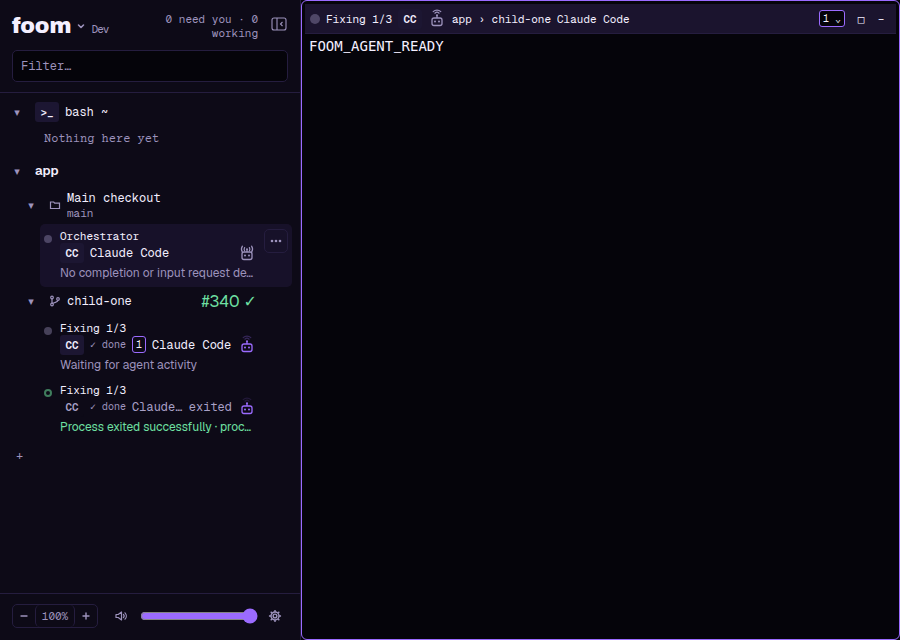
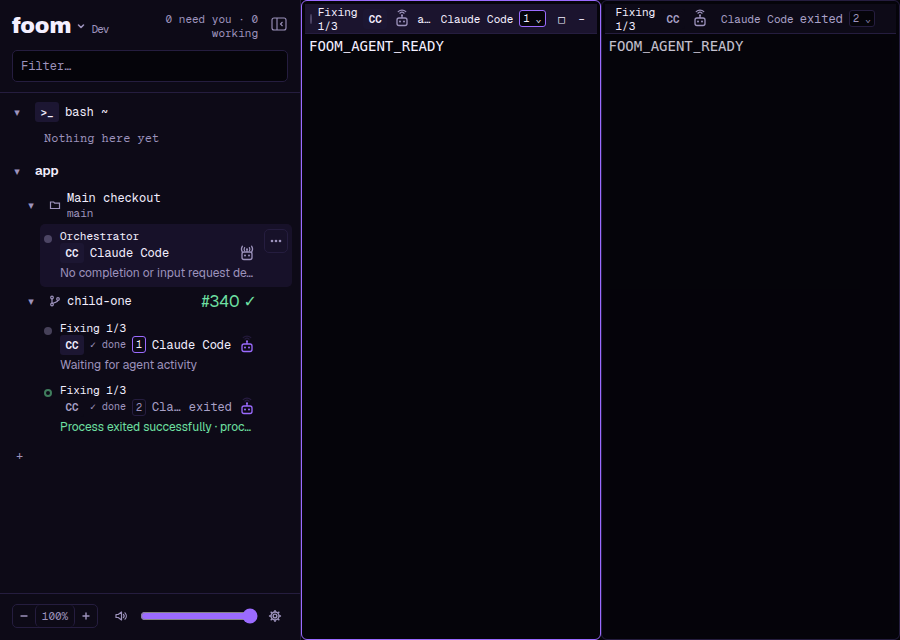
Recheck review gates, honor placement and publish fixture commands atomically

Changed region(s): [[0.3422, 0.0, 1.0, 1.0], [0.1244, 0.625, 0.2178, 0.6562], [0.6533, 0.9688, 0.6844, 1.0]]

diff --git a/tests/electron/review-loop.test.js b/tests/electron/review-loop.test.js
@@ -27,6 +27,9 @@ if (isChild) {
   const step = reviewer ? (fs.existsSync(path.join(process.env.TEST_REVIEW_ROOT, "review-1.finished")) ? "review-2" : "review-1") : resumed ? "fix" : "build";
   record(step, JSON.stringify({ args, controlUrl: process.env.FOOM_CONTROL_URL, controlToken: process.env.FOOM_CONTROL_TOKEN, instanceId: process.env.FOOM_CONTROL_INSTANCE }));
   process.stdin.on("data", () => { record("unexpected-input", "PTY input received"); process.exit(2); });
+  const fixtureError = error => { record("fixture-error", error instanceof Error ? error.message : String(error)); process.exit(2); };
+  process.on("uncaughtException", fixtureError);
+  process.on("unhandledRejection", fixtureError);
   const timer = setInterval(async () => {
     const file = path.join(process.env.TEST_REVIEW_ROOT, step + ".go");
     if (!fs.existsSync(file)) return;
@@ -58,7 +61,7 @@ for (const scenario of ["clean", "fix", "cap", "edit", "blocked", "red"]) {
     timeout: deadline(90000),
     skip: process.platform === "win32" && "The fake agent is a POSIX script",
   }, async (context) => {
-    const { chmod, mkdir, readFile, symlink, writeFile } = require("node:fs/promises");
+    const { chmod, mkdir, readFile, rename, symlink, writeFile } = require("node:fs/promises");
     const { existsSync } = require("node:fs");
     const root = await mkdtemp(path.join(tmpdir(), "foom-forge-adopt-"));
     removeAfterApps(context, root);
@@ -163,30 +166,54 @@ for (const scenario of ["clean", "fix", "cap", "edit", "blocked", "red"]) {
     const authorId = result.resultId;
     const row = page.locator(`[data-drag-session="${authorId}"]`);
     const state = async () => (await call("session_state", { id: authorId })).review;
+    const fixtureErrors = async () => {
+      const errors = [];
+      for (const suffix of ["hook-error", "handoff-error", "fixture-error", "unexpected-input"]) {
+        const file = `${credentials}.${suffix}`;
+        if (existsSync(file)) errors.push(`${suffix}: ${await readFile(file, "utf8")}`);
+      }
+      return errors;
+    };
+    const waitStep = async (step) => {
+      await expect
+        .poll(async () => {
+          const errors = await fixtureErrors();
+          return errors.length
+            ? errors.join("; ")
+            : existsSync(`${credentials}.${step}`)
+              ? "ready"
+              : "waiting";
+        })
+        .toBe("ready");
+    };
     const shot = async (name) => {
       await page.screenshot({ path: `test-results/review-loop-${scenario}-${name}.png` });
     };
     await expect(row.locator('[data-review-phase="building"]')).toHaveText("Building");
     await shot("building");
-    await expect.poll(() => existsSync(`${credentials}.build`)).toBe(true);
+    await waitStep("build");
     await expect
       .poll(
         async () => (await call("session_state", { id: authorId })).pullRequest?.requiredChecks,
         { timeout: deadline(15000) },
       )
       .toBe(scenario === "red" ? "failure" : "success");
-    const go = (step, command = {}) =>
-      writeFile(path.join(root, step + ".go"), JSON.stringify(command));
+    const go = async (step, command = {}) => {
+      const file = path.join(root, step + ".go");
+      await writeFile(file + ".tmp", JSON.stringify(command));
+      await rename(file + ".tmp", file);
+    };
     await go("build", scenario === "blocked" ? { status: "blocked" } : {});
     if (["blocked", "red"].includes(scenario)) {
       await expect.poll(async () => (await state())?.phase).toBe("escalated");
+      assert.deepEqual(await fixtureErrors(), []);
       assert.equal(
         (await state()).reason,
         scenario === "blocked" ? "author blocked" : "checks not green",
       );
       assert.equal(existsSync(`${credentials}.review-1`), false);
     } else {
-      await expect.poll(() => existsSync(`${credentials}.review-1`)).toBe(true);
+      await waitStep("review-1");
       await expect(row.locator('[data-review-phase="reviewing"]')).toHaveText(
         `Reviewing 1/${scenario === "cap" ? 1 : 3}`,
       );
@@ -202,14 +229,14 @@ for (const scenario of ["clean", "fix", "cap", "edit", "blocked", "red"]) {
         edit: scenario === "edit",
       });
       if (scenario === "fix") {
-        await expect.poll(() => existsSync(`${credentials}.fix`)).toBe(true);
+        await waitStep("fix");
         await expect(row.locator('[data-review-phase="fixing"]')).toHaveText("Fixing 1/3");
         await shot("fixing");
         const resumed = JSON.parse(await readFile(`${credentials}.fix`, "utf8"));
         assert.equal(resumed.args[resumed.args.indexOf("--resume") + 1], "author-conversation");
         assert.ok(resumed.args.at(-1).includes("Quoted review notes (JSON)"));
         await go("fix");
-        await expect.poll(() => existsSync(`${credentials}.review-2`)).toBe(true);
+        await waitStep("review-2");
         await expect(row.locator('[data-review-phase="reviewing"]')).toHaveText("Reviewing 2/3");
         await shot("reviewing-2");
         await go("review-2", { review: { verdict: "clean" } });
@@ -221,7 +248,7 @@ for (const scenario of ["clean", "fix", "cap", "edit", "blocked", "red"]) {
       if (scenario === "cap") assert.equal((await state()).reason, "round cap");
     }
     await shot("finished");
-    assert.equal(existsSync(`${credentials}.unexpected-input`), false);
+    assert.deepEqual(await fixtureErrors(), []);
     await assertAccessible(page);
   });
 }

diff --git a/src/main/control/review-loops.ts b/src/main/control/review-loops.ts
@@ -1,5 +1,19 @@
 import type { ReviewOptions, ReviewReason, ReviewState, ReviewVerdict } from "../../shared/review";
 import type { ReviewLoop, ReviewLoopHost } from "./review-loops.d";
+import type { PullRequest } from "./forge.d";
+
+function green(
+  checks: PullRequest | undefined,
+  head: string | undefined,
+  number?: number,
+): checks is PullRequest {
+  return (
+    checks?.state === "OPEN" &&
+    checks.headSha === head &&
+    (checks.requiredChecks === "success" || checks.requiredChecks === "none") &&
+    (number === undefined || checks.number === number)
+  );
+}
 
 export const AUTHOR_REVIEW_BRIEF =
   "Foom will run a sequential review after you finish. Keep one PR. Wait for its required checks to be green, handoff done, then exit the agent process. Report blocked or failed if you cannot fix red checks. Do not launch or prompt a reviewer yourself.";
@@ -43,6 +57,20 @@ export class ReviewLoops {
 
   attach(id: string, authorId: string): void {
     this.participants.set(id, authorId);
+  }
+
+  /** Recheck after capacity waits and again at the main-owned spawn boundary. */
+  reviewReady(authorId: string): boolean {
+    const loop = this.loops.get(authorId);
+    if (!loop || loop.state.phase !== "reviewing") return false;
+    if (
+      loop.number === undefined ||
+      !green(this.host.checks(authorId), loop.snapshot?.head, loop.number)
+    ) {
+      this.finish(loop, "checks not green");
+      return false;
+    }
+    return true;
   }
 
   restore(id: string, saved: ReviewState): void {
@@ -128,6 +156,7 @@ export class ReviewLoops {
     // Persist the boundary before launch. Restore always escalates saved loops.
     await this.host.save();
     if (this.finished(loop)) return;
+    if (loop.state.phase === "reviewing" && !this.reviewReady(loop.state.authorId)) return;
     const id = await this.host.step(
       loop.state.authorId,
       loop.state.phase === "reviewing",
@@ -211,13 +240,7 @@ export class ReviewLoops {
       const snapshot = await this.host.snapshot(loop.state.authorId);
       if (this.finished(loop)) return;
       const checks = this.host.checks(loop.state.authorId);
-      if (
-        !checks ||
-        checks.state !== "OPEN" ||
-        checks.headSha !== snapshot.head ||
-        (checks.requiredChecks !== "success" && checks.requiredChecks !== "none") ||
-        (loop.number !== undefined && loop.number !== checks.number)
-      ) {
+      if (!green(checks, snapshot.head, loop.number)) {
         this.finish(loop, "checks not green");
         return;
       }

diff --git a/tests/unit/main/control/orchestration-review.test.ts b/tests/unit/main/control/orchestration-review.test.ts
@@ -52,6 +52,7 @@ describe("orchestration review authority and reservations", () => {
     h.exit(id);
     await h.sync();
     expect(h.orchestration.reviews.view(id)).toMatchObject({ phase: "reviewing" });
+    expect(h.host.place).toHaveBeenLastCalledWith("child-2", "parent");
     expect(h.orchestration.view("child-2")).toEqual({
       role: "child",
       parentId: "parent",
@@ -198,5 +199,28 @@ it("rechecks the live grant at the final spawn boundary even if ownership metada
   await h.sync();
   expect(spawned).toBe(false);
   expect(h.orchestration.reviews.view(id)).toMatchObject({ reason: "launch failed" });
+  h.orchestration.disposeUnreadChildren();
+});
+
+it("refuses a reviewer if known checks turn red during provider preparation", async () => {
+  const h = fixture();
+  const id = await h.launch();
+  let spawned = false;
+  h.host.launch.mockImplementationOnce((...args) => {
+    h.host.forge.read.mockReturnValue({
+      number: 7,
+      headSha: "head",
+      state: "OPEN",
+      requiredChecks: "failure",
+    });
+    args[6]?.validate();
+    spawned = true;
+    return Promise.resolve("unexpected");
+  });
+  h.report(id);
+  h.exit(id);
+  await h.sync();
+  expect(spawned).toBe(false);
+  expect(h.orchestration.reviews.view(id)).toMatchObject({ reason: "checks not green" });
   h.orchestration.disposeUnreadChildren();
 });

diff --git a/src/main/control/orchestration-authority.ts b/src/main/control/orchestration-authority.ts
@@ -444,6 +444,7 @@ export class OrchestrationAuthority {
     const validate = () => {
       if (operation) operations.lookup(actor, { operationId: operation.operationId });
       this.parent(actor);
+      if (reviewer && !this.reviews.reviewReady(authorId)) throw new ControlError("conflict");
       const current = this.reviews.view(authorId);
       if (
         this.own(parent, authorId) !== child ||
@@ -497,9 +498,11 @@ export class OrchestrationAuthority {
       else child.exited ||= this.early.delete(id);
       this.reviews.attach(id, authorId);
       const current = this.reviews.view(authorId);
-      if (!parent.active || current?.phase !== state.phase || current.round !== state.round)
-        await this.host.stop(id);
+      const cancelled =
+        !parent.active || current?.phase !== state.phase || current.round !== state.round;
+      if (cancelled) await this.host.stop(id);
       this.changed();
+      if (reviewer && !cancelled) this.host.place?.(id, actor.terminalId);
       await this.finish(actor, parent, operations, operation, label, "succeeded", id);
       return id;
     } catch (error) {

diff --git a/tests/unit/main/control/review-loops.test.ts b/tests/unit/main/control/review-loops.test.ts
@@ -280,3 +280,29 @@ it("escalates nonzero exits and restores metadata without spawning", async () =>
   expect(g.loop.unread("saved")).toBe(1000);
   expect(g.host.step).not.toHaveBeenCalled();
 });
+
+it("refuses review when checks turn red while waiting for capacity or persistence", async () => {
+  const red = {
+    number: 7,
+    state: "OPEN" as const,
+    headSha: "head",
+    requiredChecks: "failure" as const,
+  };
+  const h = fixture();
+  expect(h.loop.reviewReady("unknown")).toBe(false);
+  expect(h.loop.reviewReady("author")).toBe(false);
+  vi.mocked(h.host.step).mockResolvedValueOnce(undefined);
+  await h.authorDone();
+  h.setChecks(red);
+  await h.sync();
+  expect(h.loop.view("author")).toMatchObject({ reason: "checks not green" });
+  expect(h.host.step).toHaveBeenCalledTimes(1);
+  const f = fixture();
+  vi.mocked(f.host.save).mockImplementationOnce(() => {
+    f.setChecks(red);
+    return Promise.resolve();
+  });
+  await f.authorDone();
+  expect(f.host.step).not.toHaveBeenCalled();
+  expect(f.loop.view("author")).toMatchObject({ reason: "checks not green" });
+});

diff --git a/tests/unit/main/workspace/orchestration-workspace.test.ts b/tests/unit/main/workspace/orchestration-workspace.test.ts
@@ -2001,6 +2001,13 @@ it.each([false, true])(
       });
     });
     expect(snapshot).toHaveBeenCalledWith(deps.worktrees, repo.path, child.path, "identity");
+    expect(deps.placeChild).toHaveBeenLastCalledWith("child-2", "parent");
+    workspace.configure({
+      hooks: false,
+      agents: { claude: true, codex: true, agy: true },
+      showNewChildren: false,
+    });
+    vi.mocked(deps.placeChild)?.mockClear();
     if (resumeFails) launch.mockRejectedValueOnce(new Error("Resume failed"));
     report("child-2", 1, {
       verdict: "findings",
@@ -2040,6 +2047,7 @@ it.each([false, true])(
         waiting: false,
       });
     });
+    expect(deps.placeChild).not.toHaveBeenCalled();
     report("child-3", 1, { verdict: "clean" });
     await workspace.exited("child-3", 0);
     await vi.waitFor(() => {

diff --git a/docs/areas/orchestration.md b/docs/areas/orchestration.md
@@ -62,6 +62,8 @@ on #690; there is no parentless-agent handoff capability.
 The author keeps one PR, waits for green required checks, hands off `done`, then
 exits. Main verifies an open PR and a successful (or empty) required-check set
 whose head matches local HEAD before launching a reviewer in the same checkout.
+It rechecks the observed PR/check facts after capacity waits and immediately before
+spawning, so a newly red or changed head cannot pass on an earlier green result.
 Missing, pending, red, unknown or mismatched-head checks escalate without review.
 The reviewer gets a fixed brief: reproduced correctness/security bugs only, no
 style nits or edits, then a structured verdict handoff and process exit. Main
@@ -81,6 +83,8 @@ and raises a readable event for the parent. Clean still requires the orchestrato
 final verification and merge decision. Foom never merges or makes forge writes.
 
 Reviewers are ordinary owned children and consume the existing per-parent budget.
+New reviewer placement follows the same General → Show new children on the board
+preference as initial children, without taking focus; author resumes retain their tile.
 Each transition reserves a slot before asynchronous work, waits when full, and
 rechecks ownership and cancellation immediately before spawning. Handoffs remain
 readable under each participant's ID. State is exposed in session metadata and

diff --git a/docs/behavior/orchestration.md b/docs/behavior/orchestration.md
@@ -207,6 +207,8 @@ The author hands off after its PR's required checks are green and exits. Foom
 launches a reviewer in that checkout, then resumes the author's conversation with
 quoted findings when fixes are needed. Only one step runs in a checkout at a time.
 Reviewers consume the orchestrator's existing child slots and wait if full.
+New reviewer placement follows Show new children on the board; author resumes
+keep their existing tile. Neither step takes keyboard focus.
 The sidebar and tile show Building, Reviewing 2/3, Fixing 2/3, Review clean, or
 Escalated with a fixed reason. Every participant's handoffs remain available to
 the orchestrator. Clean also raises attention: the orchestrator verifies the
